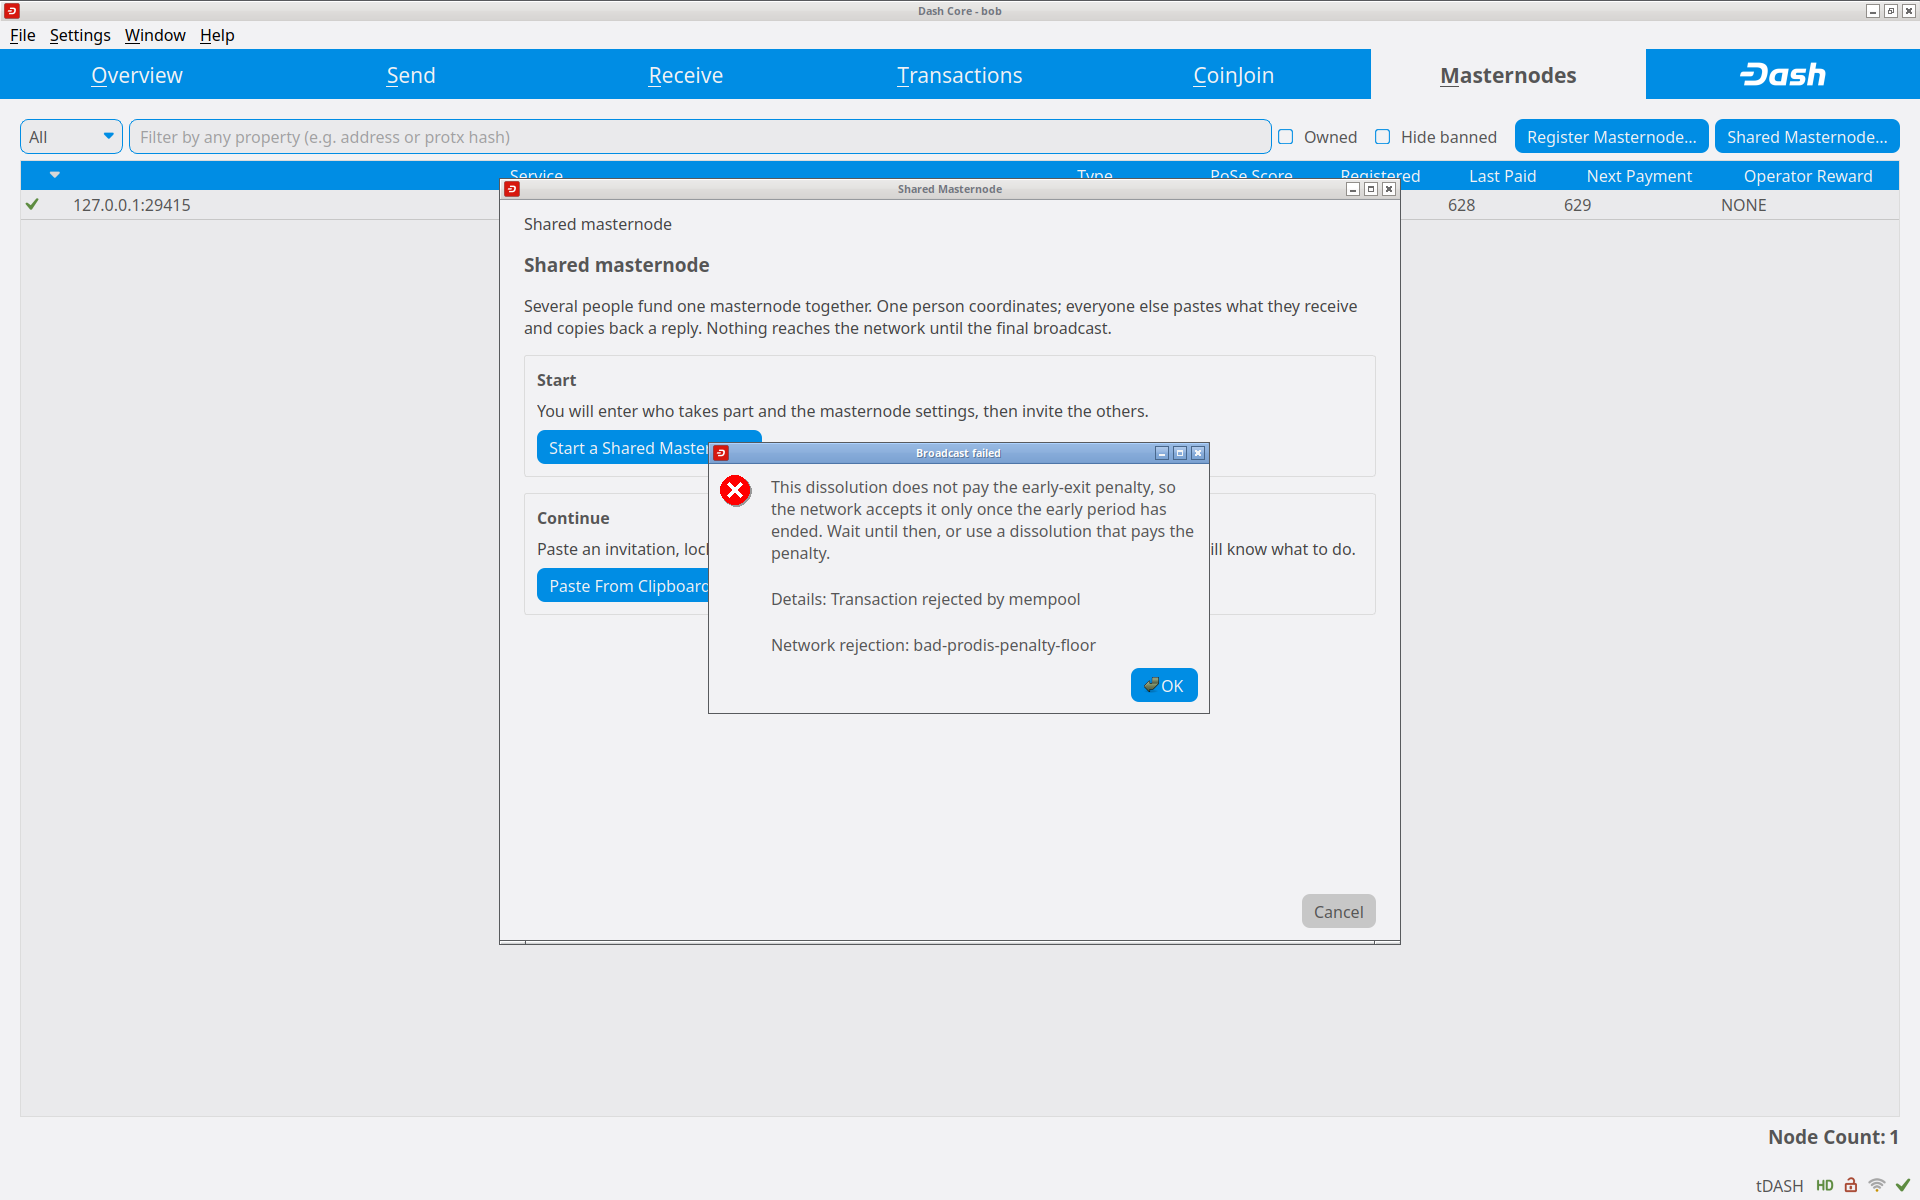
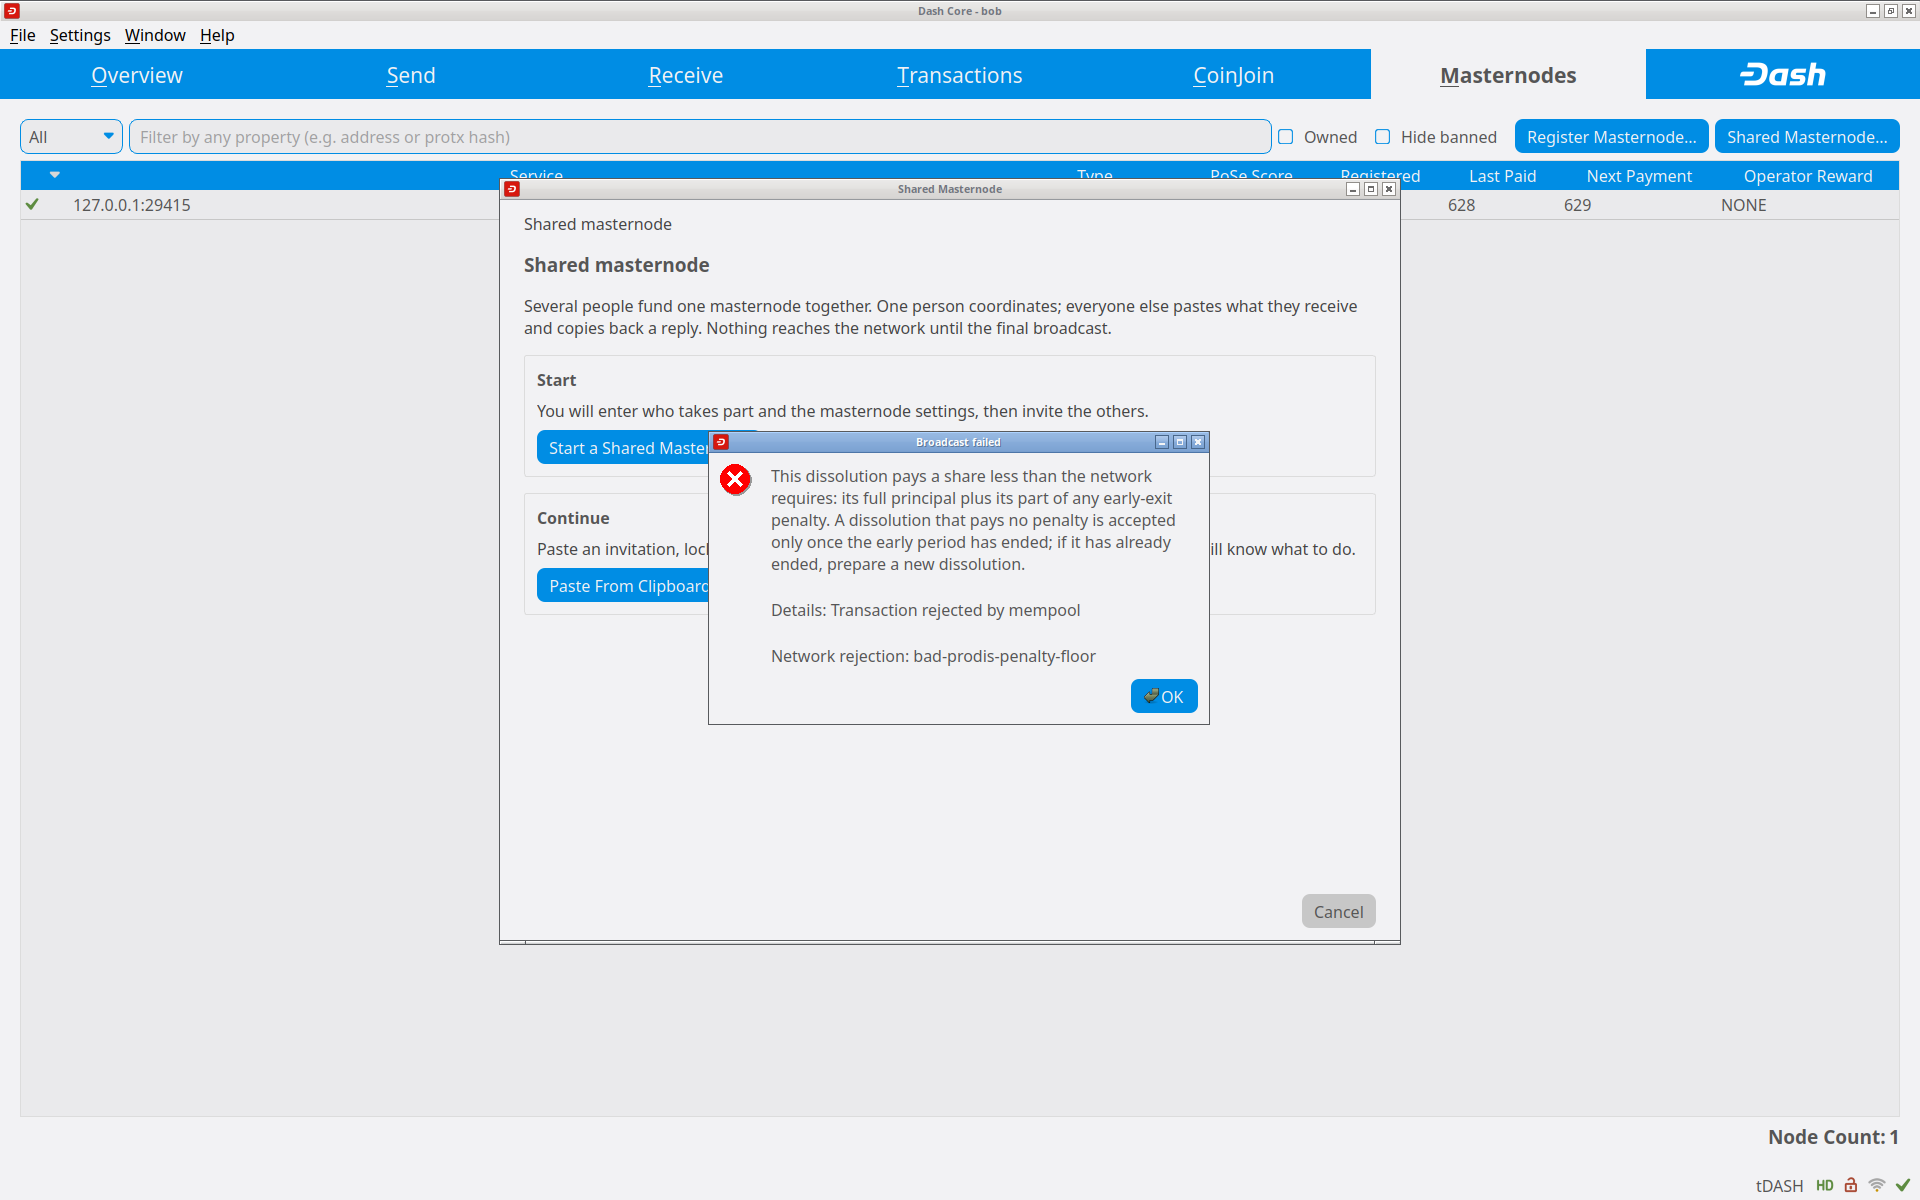
dash#8019: recapture standby 'after' on head e05da58e (reworded explanation)

Changed region(s): [[0.375, 0.3392, 0.625, 0.555], [0.5938, 0.555, 0.625, 0.6167]]

diff --git a/dash/pr-8019/README.md b/dash/pr-8019/README.md
@@ -7,10 +7,13 @@ All screenshots are real captures of `dash-qt` on a disposable **regtest** netwo
 | Column | Source | `dash-qt` sha256 |
 |---|---|---|
[5 lines of base64/hex data omitted]
 
 Both base and head were built from the same worktree, in the same configuration. The base build is the head with its two product files (`src/qt/sharedmnwidgets.cpp`, `src/qt/masternodeoperationrunner.cpp`) checked out at the base commit, so its product sources are identical to the base. Both report `/Dash Core:24.1.0/`.
+
+The current head `e05da58e` differs from `0a924cd5` only in the wording of the `bad-prodis-penalty-floor` explanation and in the test. The registration case never shows that explanation (it is refused with `bad-txns-inputs-missingorspent`), so its `0a924cd5` screenshots still show the current head's behaviour. The standby "after" screenshots were recaptured with `e05da58e` from a fresh copy of the same datadir, at the same height. That copy showed the wallet-sync overlay because the regtest tip was older by then, and it was hidden before pasting.
 
 ## Shared fixture
 
@@ -60,9 +63,9 @@ Both base and head were built from the same worktree, in the same configuration.
 7ddd94df196981c73b35887ce855e6e06b2e737f34d12c4a77e2350eaa0e9741  ./comparison/after/registration-2-confirm.png
 eb7390214901d4cfaa0b4fb436168245565245a79e47c379b27c72b8de995912  ./comparison/after/registration-3-result-full.png
 0edb05c1f9fcc0232b0d69f1cd3771dc525de18940740fd8fb5b49a10cbe6a01  ./comparison/after/registration-3-result.png
-09c89a0799149a1fd4aa6186c37b93fff174d5645af503acb4dfd6513fe92173  ./comparison/after/standby-1-confirm.png
-587a395de3b4aae106c51df6d467e4d6ffd3e5613713f7df053ab9d222841705  ./comparison/after/standby-2-result-full.png
-30399254da20657b6e4a81602bbbbc5661baddd481956771e99de37a3fb16b45  ./comparison/after/standby-2-result.png
+9d1c333d260a57bd18fd0d1a562b3846aa99cc1250f4ef810c4cf0201f4d2429  ./comparison/after/standby-1-confirm.png
+c696212b3d96a6d972d5dd6d34d05eb877883f87bccb83021c54221c37c32561  ./comparison/after/standby-2-result-full.png
+254f51071011bcc862db023dfe495aaaf894eaa278b27c9b709378c726bc70a9  ./comparison/after/standby-2-result.png
 881b912790b91435eebb3c1d62d40fe2935702598bb5a026b13203d7c1e4ae7e  ./comparison/before/registration-1-signatures-full.png
 5427c9e16d0c0c495a4bcc83448a3e2bb64f5ae2df0665347fe50113eb95ee0d  ./comparison/before/registration-1-signatures.png
 11d367e2a032820d36482a2ccc3000fff01583e9e0161810bc8cdecfe74ba5bb  ./comparison/before/registration-2-confirm.png
@@ -74,6 +77,6 @@ b94109b4267f7bb5d074617dd349a1cee62f0d74d0052513d9fec13d991000c1  ./comparison/b
 a99bc1263e67a664f58dbbe311de356c66b057d1e875250d4dcc9d4615d9d120  ./rc6/standby-2-result-full.png
 c651de8455444957b20f14ddc4bdbba67806f5e4a29f336c394a7ce399455808  ./reg-after-state.txt
 dcc161dbb0571c2ce387f9c0e4c7abd9f6bb6470087210a53acccf2a3400e935  ./reg-before-state.txt
-4a0f9b69c6118832a73c449e8541f5075cc2021b5071dbd7383001dab1281f15  ./standby-after-state.txt
+8345de679fe9b2d96c24ec57b0f30fb426eaa2723d639b63203dabad0609eb87  ./standby-after-state.txt
 864ec7eb9b7ab7a362285486b18df1a6612a804c4a217d479fc0ce3e519864f5  ./standby-before-state.txt
 ```
